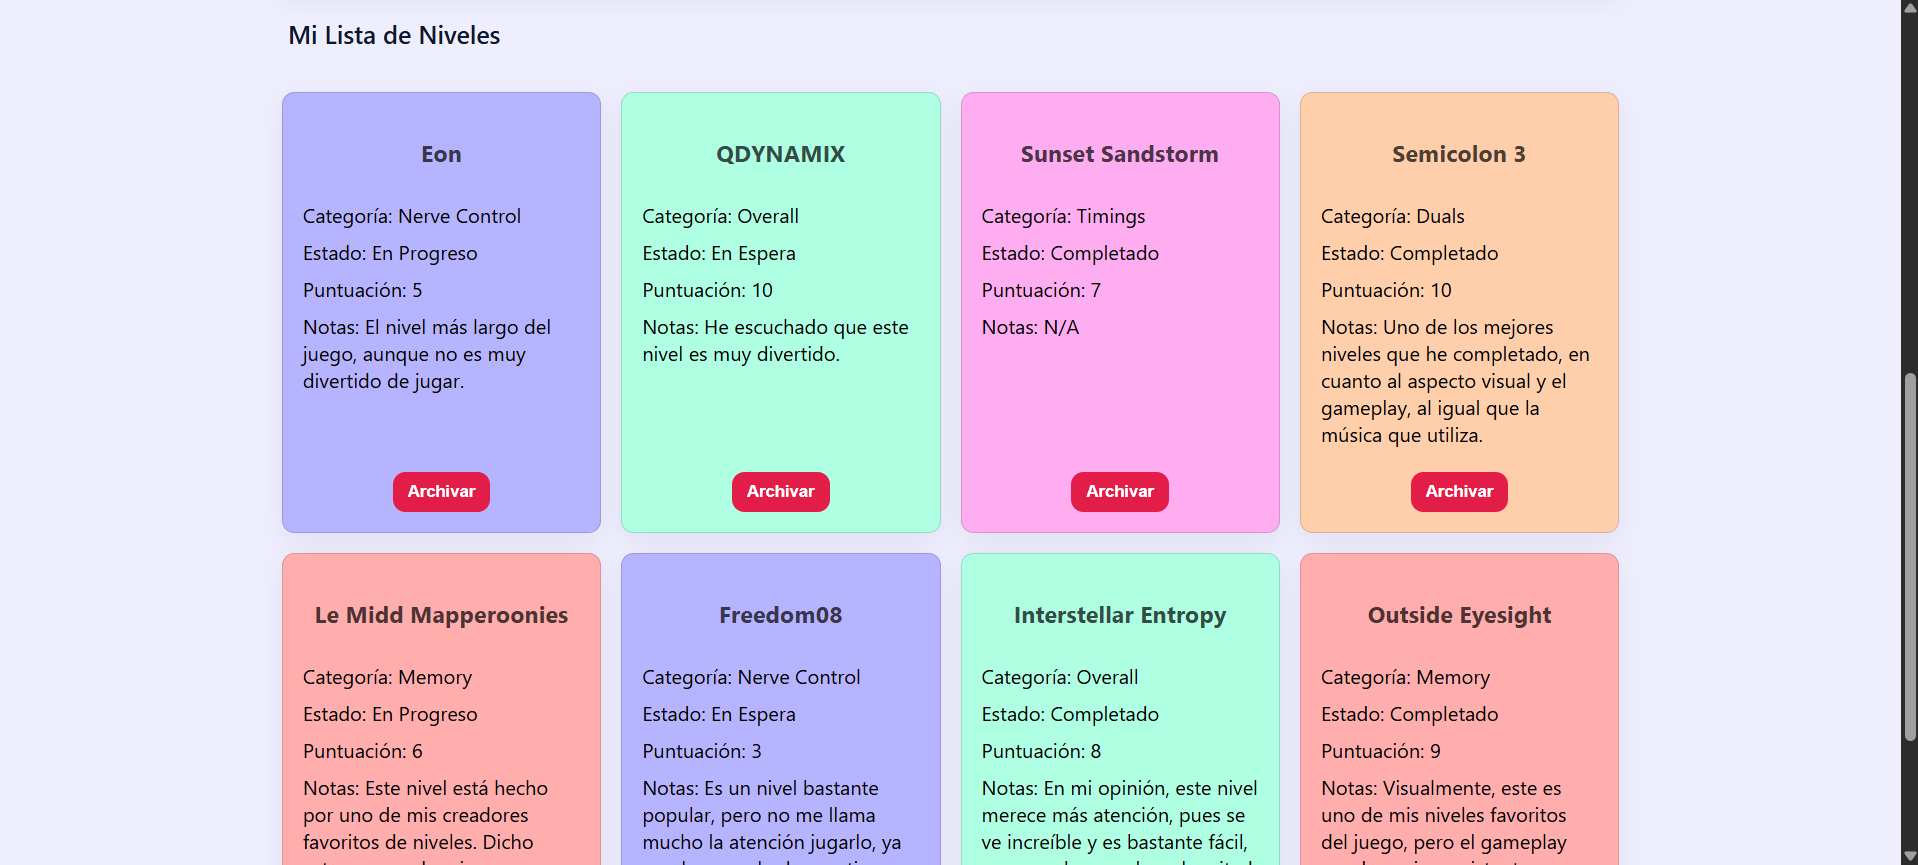
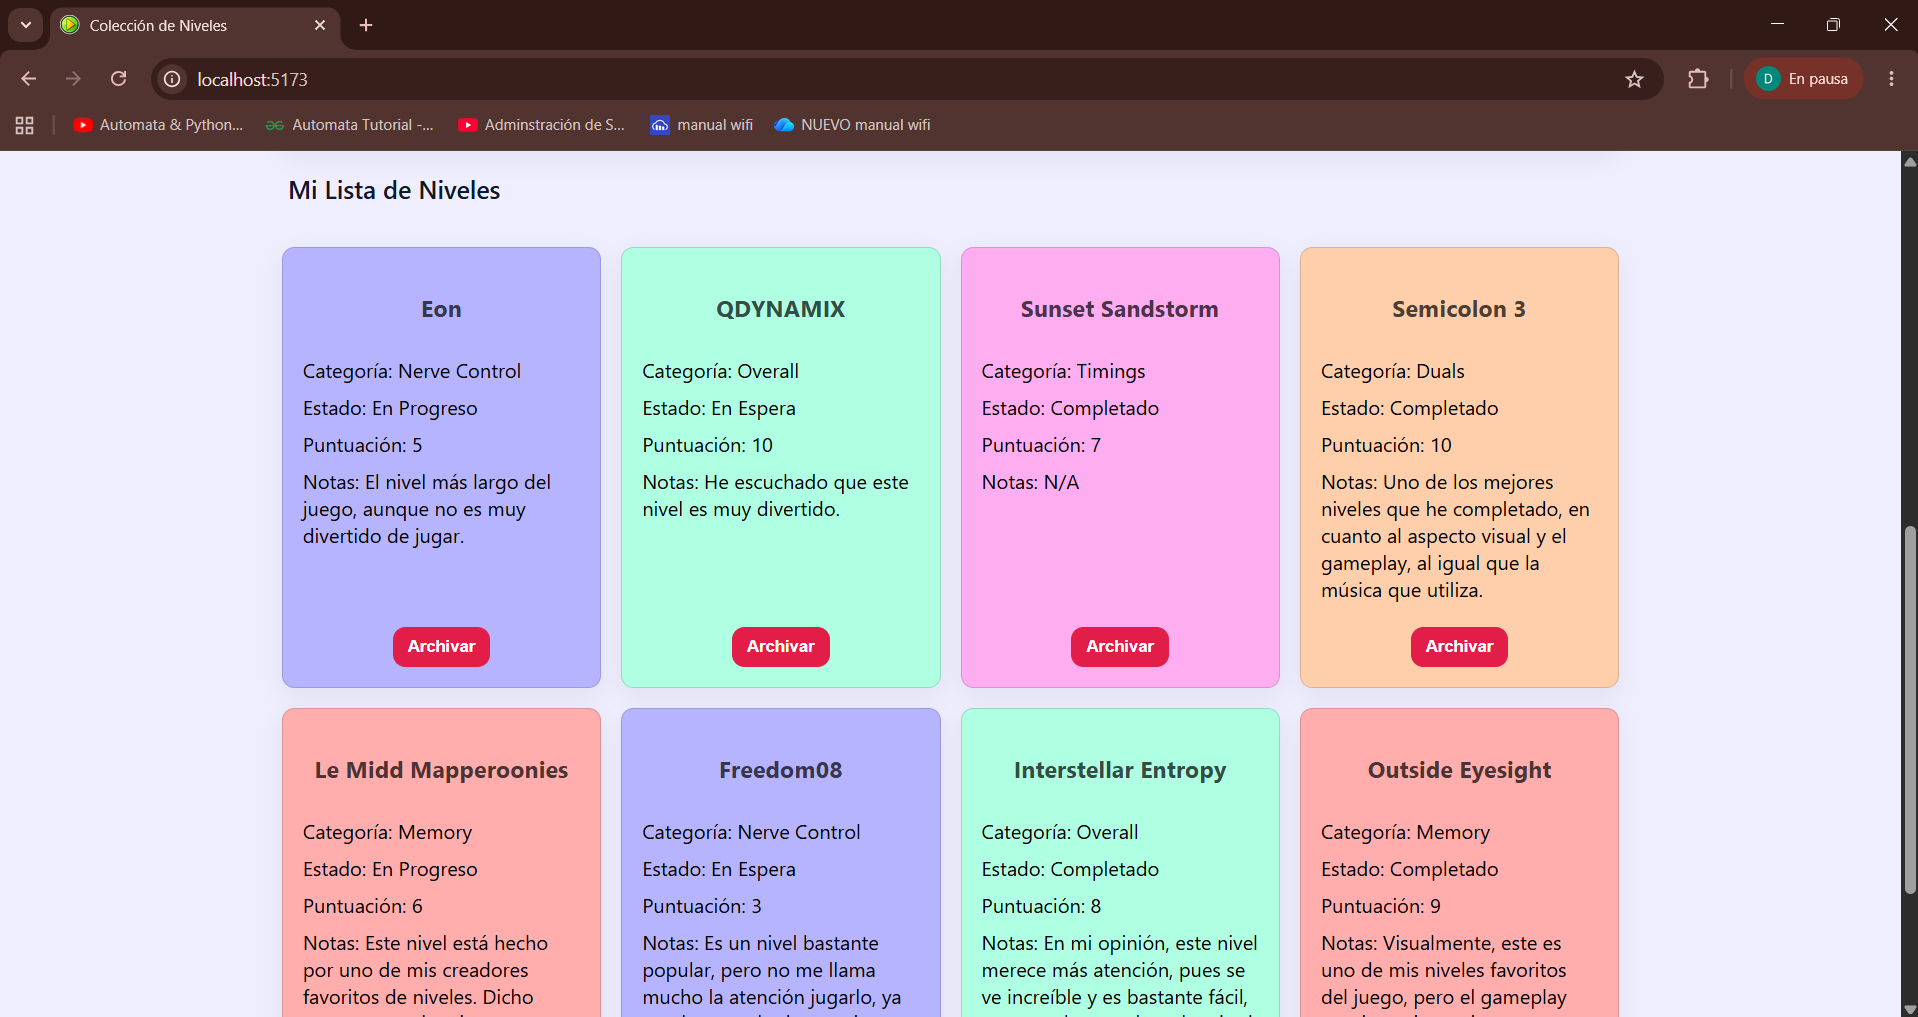
Finalización del README. Corrección en screenshot lista-claro.png

diff --git a/README.md b/README.md
@@ -52,7 +52,15 @@ npm install
 <p>Ahora tienes tus dos servidores corriendo localmente. El servidor del backend estará corriendo en el puerto 3001, mientras que el servidor del frontend estará corriendo en el puerto 5173.</p>
 
 <h3>Funcionamiento del App</h3>
-<p>Aquí se encuentran unos screenshots que muestran cómo se ve la aplicación:</p>
+<p>Así se ve la aplicación inicialmente, en temas claro y oscuro, respectivamente:</p>
+<img src="screenshots/inicio-claro.png" height="500px">
+<img src="screenshots/inicio-oscuro.png" height="500px">
+<p></p>
+
+<p>Así se ve la aplicación con varios registros de niveles creados, en temas claro y oscuro, respectivamente:</p>
+<img src="screenshots/lista-claro.png" height="500px">
+<img src="screenshots/lista-oscuro.png" height="500px">
+
 <hr>
 
 <p>Creado por Diego André Chún Rizzo - 22955</p>
